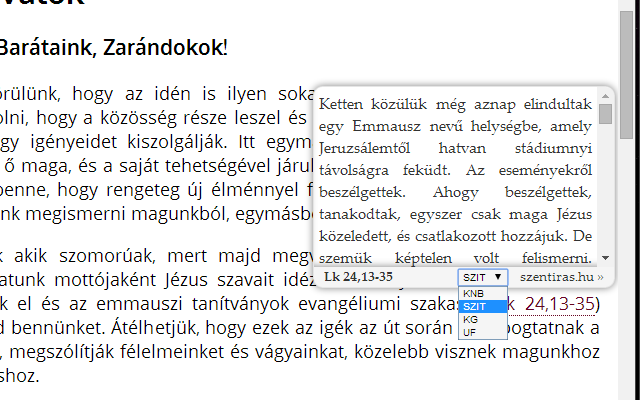
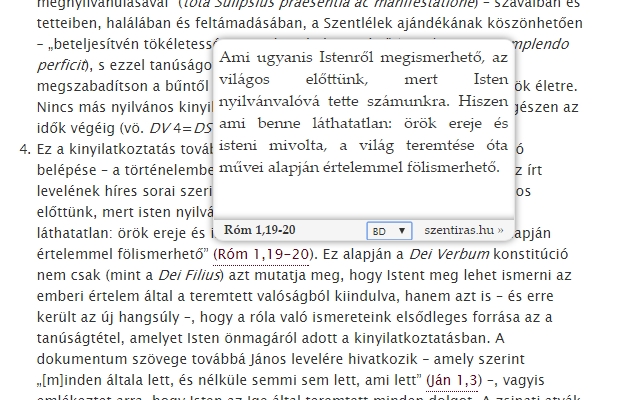
1.3 verzió

diff --git a/igemutato.min.js b/igemutato.min.js
@@ -1,1 +1,1 @@
-var Szentiras=(function(){var G={forditas:"SZIT",tipW:300,tipH:200,fontSize:16,tipD:5,tipShow:200,tipHide:500,excludeTags:"head,script,input,select,textarea,h1,h2,h3,a",enableFormatting:true,showNumbers:false},H=/(?:^|[^\w\u00C0-\u017F])((?:[12](?:K(?:[io]r|rón)|Makk?|Pé?t(?:er)?|Sám|T(?:h?essz?|im))|[1-3]Já?n(?:os)?|[1-5]Móz(?:es)?|(?:Ap)?Csel|A(?:gg?|bd)|Ám(?:ós)?|B(?:ár|[ií]r(?:ák)?|ölcs)|Dán|É(?:sa|zs|n(?:ek(?:ek|Én)?)?)|E(?:f(?:éz)?|szt?|z(?:s?dr?)?)|Fil(?:em)?|Gal|H(?:a[bg]|ós)|Iz|J(?:ak|á?n(?:os)?|e[lr]|o(?:el)?|ó(?:[bn]|zs|el)|[Ss]ir(?:alm?)?|úd(?:ás)?|ud(?:it)?)|K(?:iv|ol)|L(?:ev|u?k(?:ács)?)|M(?:al(?:ak)?|á?té?|(?:ár)?k|ik|Törv)|N[áe]h|(?:Ó|O)z|P(?:él|ré)d|R(?:óm|[uú]th?)|S(?:ir(?:alm?)?|ír|z?of|zám)|T(?:er|it|ób)|Z(?:ak|of|s(?:olt|id)?))\.?(?:\s*[0-9]{1,3}(?:[,:]\s*[0-9]{1,2}[a-z]?(?:\s*[-–—]\s*[0-9]{1,2}[a-z]?\b(?![,:]))?(?:\.\s*[0-9]{1,2}[a-z]?(?:\s*[-–—]\s*[0-9]{1,2}[a-z]?\b(?![,:]))?)*)?(?:\s*[-–—]\s*[0-9]{1,3}(?:[,:]\s*[0-9]{1,2}[a-z]?(?:\s*[-–—]\s*[0-9]{1,2}[a-z]?\b(?![,:]))?(?:\.\s*[0-9]{1,2}[a-z]?(?:\s*[-–—]\s*[0-9]{1,2}[a-z]?\b(?![,:]))?)*)?)?(?:\s*[\|;]\s*[0-9]{1,3}(?:[,:]\s*[0-9]{1,2}[a-z]?(?:\s*[-–—]\s*[0-9]{1,2}[a-z]?\b(?![,:]))?(?:\.\s*[0-9]{1,2}[a-z]?(?:\s*[-–—]\s*[0-9]{1,2}[a-z]?\b(?![,:]))?)*)?(?:\s*[-–—]\s*[0-9]{1,3}(?:[,:]\s*[0-9]{1,2}[a-z]?(?:\s*[-–—]\s*[0-9]{1,2}[a-z]?\b(?![,:]))?(?:\.\s*[0-9]{1,2}[a-z]?(?:\s*[-–—]\s*[0-9]{1,2}[a-z]?\b(?![,:]))?)*)?)?)*))(?:(?=[^\w\u00C0-\u017F])|$)/g,v=["KNB","SZIT","KG","UF","BD"],j="http://szentiras.hu/",t=j+"api/idezet/",i,p,g,r,s,o,J,u={},n,I,D=document,F=D.body,C=D.documentElement,c,l;if(!Array.prototype.indexOf){Array.prototype.indexOf=function(d){var b=this.length>>>0,e=0;for(;e<b;e++){if(e in this&&this[e]===d){return e}}return -1}}function a(K){var b,e,d,L,N,M;if(K=(K&&K.firstChild)){do{e=K.nextSibling;d=K.parentNode;if(K.nodeType===1&&c.indexOf(K.nodeName.toLowerCase())==-1){a(K)}else{if(K.nodeType===3){N=K.data;while(b=H.exec(N)){M=RegExp.leftContext,N=RegExp.rightContext,L=z(b);if(!L){continue}d.insertBefore(D.createTextNode(M),d.insertBefore(L,K));H.lastIndex=0}d.replaceChild(D.createTextNode(N),K)}}}while(K=e)}}function z(d){var b=D.createElement("a"),e=encodeURI(d[1].replace(/\s/g,""));b.className+=" ige-link";b.appendChild(D.createTextNode(d[0]));b.setAttribute("data-ige",d[1]);b.setAttribute("data-ref",e);b.target="_blank";b.href=j+n+"/"+e;b.onmouseover=function(K){clearTimeout(s);clearTimeout(o);m();k(b);s=setTimeout(function(){i.style.display="block";p.scrollTop=0},G.tipShow)};b.onmouseout=function(){clearTimeout(s);if(i){clearTimeout(o);o=setTimeout(function(){m()},G.tipHide)}};return b}function f(e,b){var d=new XMLHttpRequest();if("withCredentials" in d){d.open(e,b,true)}else{if(typeof XDomainRequest!="undefined"){d=new XDomainRequest();d.open(e,b)}else{d=null}}return d}function x(){J&&J.abort();if(u[n]&&u[n][I]){p.innerHTML=u[n][I];p.scrollTop=0;return}var e=t+I+"/"+n,b=function(){p.textContent="A betöltés sikertelen :-("},d=function(){try{if(!J.readystatechange||J.readyState===4){if(J.status===200){E(JSON.parse(J.responseText))}else{b()}}}catch(K){console&&console.log&&console.log(K.message)}};J=f("GET",e);if(J.readystatechange){J.onreadystatechange=d}else{J.onload=d;J.onerror=b}J.send()}function E(M){try{if(M&&M.error){B(p,M.error)}else{if(M&&M.valasz){if(M.valasz.hiba){B(p,M.valasz.hiba)}else{if(M.valasz.versek){if(M.valasz.versek.length){var d=M.valasz.versek;var b="",e,O=0,N;for(var L=0;L<d.length;L++){e=d[L].szoveg;if(!l){e=e.trim()}if(!G.enableFormatting){e=e.replace(/<[^>]+>/g," ").replace(/\s+/g," ")}if(G.showNumbers){N=y(d[L]);e="<sup>"+N.vers+"</sup>"+e;if(N.fejezet!=O){e='<span class="konyv">'+N.fejezet+"</span>&nbsp;"+e;O=N.fejezet}}b+=e+" "}p.innerHTML=b;u[n]||(u[n]={});u[n][I]=b;p.scrollTop=0;return}else{B(p,"Nem található a kért szöveg, talán egy másik fordításban?");return}}}}}}catch(K){console&&console.log&&console.log(K.message)}B(p,"Valami baj van a szöveggel...")}function y(d){var b=d.hely.gepi.toString();return{fejezet:parseInt(b.substring(3,6),10),vers:parseInt(b.substring(6,9),10)}}function B(b,d){if(l){b.innerText=d}else{b.textContent=d}}function A(){var M,L,b,K,e;i=D.createElement("div"),p=D.createElement("div"),p.className+="szoveg",i.appendChild(p),M=D.createElement("div"),M.className+="igehely",i.appendChild(M);i.id="igemutato-tooltip";i.onmouseover=function(){clearTimeout(o)};i.onmouseout=function(N){clearTimeout(o);o=setTimeout(function(){m()},G.tipHide)};p.style.fontSize=G.fontSize+"px";p.style.height=(G.tipH-30)+"px";L=D.createElement("div");g=D.createElement("a"),g.target="_blank",L.appendChild(g);r=D.createElement("select");for(var d=0;d<v.length;d++){e=D.createElement("option");e.value=v[d];B(e,v[d]);if(n==v[d]){e.selected=true}r.appendChild(e)}r.onchange=function(){n=r.value;g.href=j+n+"/"+I;x()};b=D.createElement("a"),b.href=j,b.target="_blank",B(b,"szentiras.hu »");K=D.createElement("span"),K.appendChild(b);M.appendChild(K);M.appendChild(r);M.appendChild(L);i.style.display="none";F.appendChild(i)}function q(d){var b=d.getBoundingClientRect();return{top:b.top+(window.pageYOffset||C.scrollTop||F.scrollTop)-C.clientTop,left:b.left+(window.pageXOffset||C.scrollLeft||F.scrollLeft)-C.clientLeft}}function k(e){var M=e.getAttribute("data-ige"),d=e.getAttribute("data-ref"),b=e.getBoundingClientRect(),N=q(e),L=F.clientWidth||window.innerWidth,K=e.offsetHeight;g.href=e.href;B(g,M);B(p,"Betöltés...");I=d;x();i.style.top=((b.top>G.tipH+G.tipD)?(N.top-G.tipH-G.tipD):(N.top+K+G.tipD))+"px";i.style.left=((N.left+G.tipW>L)?(L-G.tipW-G.tipD):N.left)+"px";i.style.width=G.tipW+"px";i.style.height=G.tipH+"px"}function m(){i.style.display="none";I=null}function w(b){var M=G;for(key in b){M[key]=b[key]}var e=parseInt(M.tipW),O=parseInt(M.tipH),L=parseInt(M.fontSize),d=parseInt(M.tipShow),K=parseInt(M.tipHide),N=M.forditas;M.tipW=(isNaN(e)||e<100)?G.tipW:e;M.tipH=(isNaN(O)||e<50)?G.tipH:O;M.fontSize=(isNaN(L)||L<5)?G.fontSize:L;M.tipShow=(isNaN(d)||d<0)?G.tipShow:d;M.tipHide=(isNaN(K)||K<0)?G.tipHide:K;M.forditas=(v.indexOf(N)==-1)?G.forditas:N;M.excludeTags=M.excludeTags||G.excludeTags;M.enableFormatting=(M.enableFormatting===undefined)?G.enableFormatting:M.enableFormatting;M.showNumbers=(M.showNumbers===undefined)?G.showNumbers:M.showNumbers;G=M}function h(d){var b=D.createElement("link");b.setAttribute("rel","stylesheet");b.setAttribute("type","text/css");b.setAttribute("href","http://molnarm.github.io/igemutato.min.css");D.getElementsByTagName("head")[0].appendChild(b);l=(window.attachEvent&&!window.addEventListener);n=G.forditas;c=G.excludeTags.split(",");A();a(d)}return{setConfig:w,start:h}})();window.igemutato&&window.igemutato.config&&Szentiras.setConfig(window.igemutato.config);Szentiras.start(document.body);
+var Szentiras=(function(){var G={forditas:"SZIT",tipW:300,tipH:200,fontSize:16,tipD:5,tipShow:200,tipHide:500,excludeTags:"head,script,input,select,textarea,h1,h2,h3,a",enableFormatting:true,showNumbers:false},H=/(?:^|[^\w\u00C0-\u017F])((?:[12](?:K(?:[io]r|rón)|Makk?|Pé?t(?:er)?|Sám|T(?:h?essz?|im))|[1-3]Já?n(?:os)?|[1-5]Móz(?:es)?|(?:Ap)?Csel|A(?:gg?|bd)|Ám(?:ós)?|B(?:ár|[ií]r(?:ák)?|ölcs)|Dán|É(?:sa|zs|n(?:ek(?:ek|Én)?)?)|E(?:f(?:éz)?|szt?|z(?:s?dr?)?)|Fil(?:em)?|Gal|H(?:a[bg]|ós)|Iz|J(?:ak|á?n(?:os)?|e[lr]|o(?:el)?|ó(?:[bn]|zs|el)|[Ss]ir(?:alm?)?|úd(?:ás)?|ud(?:it)?)|K(?:iv|ol)|L(?:ev|u?k(?:ács)?)|M(?:al(?:ak)?|á?té?|(?:ár)?k|ik|Törv)|N[áe]h|(?:Ó|O)z|P(?:él|ré)d|R(?:óm|[uú]th?)|S(?:ir(?:alm?)?|ír|z?of|zám)|T(?:er|it|ób)|Z(?:ak|of|s(?:olt|id)?))\.?(?:\s*[0-9]{1,3}(?:[,:]\s*[0-9]{1,2}[a-z]?(?:\s*[-–—]\s*[0-9]{1,2}[a-z]?\b(?![,:]))?(?:\.\s*[0-9]{1,2}[a-z]?(?:\s*[-–—]\s*[0-9]{1,2}[a-z]?\b(?![,:]))?)*)?(?:\s*[-–—]\s*[0-9]{1,3}(?:[,:]\s*[0-9]{1,2}[a-z]?(?:\s*[-–—]\s*[0-9]{1,2}[a-z]?\b(?![,:]))?(?:\.\s*[0-9]{1,2}[a-z]?(?:\s*[-–—]\s*[0-9]{1,2}[a-z]?\b(?![,:]))?)*)?)?(?:\s*[\|;]\s*[0-9]{1,3}(?:[,:]\s*[0-9]{1,2}[a-z]?(?:\s*[-–—]\s*[0-9]{1,2}[a-z]?\b(?![,:]))?(?:\.\s*[0-9]{1,2}[a-z]?(?:\s*[-–—]\s*[0-9]{1,2}[a-z]?\b(?![,:]))?)*)?(?:\s*[-–—]\s*[0-9]{1,3}(?:[,:]\s*[0-9]{1,2}[a-z]?(?:\s*[-–—]\s*[0-9]{1,2}[a-z]?\b(?![,:]))?(?:\.\s*[0-9]{1,2}[a-z]?(?:\s*[-–—]\s*[0-9]{1,2}[a-z]?\b(?![,:]))?)*)?)?)*))(?:(?=[^\w\u00C0-\u017F])|$)/g,v=["KNB","SZIT","KG","UF","RUF","BD"],j=(window.location.protocol=="https:"?"https:":"http:")+"//szentiras.hu/",t=j+"api/idezet/",i,p,g,r,s,o,J,u={},n,I,D=document,F=D.body,C=D.documentElement,c,l;if(!Array.prototype.indexOf){Array.prototype.indexOf=function(d){var b=this.length>>>0,e=0;for(;e<b;e++){if(e in this&&this[e]===d){return e}}return -1}}function a(K){var b,e,d,L,N,M;if(K=(K&&K.firstChild)){do{e=K.nextSibling;d=K.parentNode;if(K.nodeType===1&&c.indexOf(K.nodeName.toLowerCase())==-1){a(K)}else{if(K.nodeType===3){N=K.data;while(b=H.exec(N)){M=RegExp.leftContext,N=RegExp.rightContext,L=z(b);if(!L){continue}d.insertBefore(D.createTextNode(M),d.insertBefore(L,K));H.lastIndex=0}d.replaceChild(D.createTextNode(N),K)}}}while(K=e)}}function z(d){var b=D.createElement("a"),e=encodeURI(d[1].replace(/\s/g,""));b.className+=" ige-link";b.appendChild(D.createTextNode(d[0]));b.setAttribute("data-ige",d[1]);b.setAttribute("data-ref",e);b.target="_blank";b.href=j+n+"/"+e;b.onmouseover=function(K){clearTimeout(s);clearTimeout(o);m();k(b);s=setTimeout(function(){i.style.display="block";p.scrollTop=0},G.tipShow)};b.onmouseout=function(){clearTimeout(s);if(i){clearTimeout(o);o=setTimeout(function(){m()},G.tipHide)}};return b}function f(e,b){var d=new XMLHttpRequest();if("withCredentials" in d){d.open(e,b,true)}else{if(typeof XDomainRequest!="undefined"){d=new XDomainRequest();d.open(e,b)}else{d=null}}return d}function x(){J&&J.abort();if(u[n]&&u[n][I]){p.innerHTML=u[n][I];p.scrollTop=0;return}var d=t+I+"/"+n,b=function(){try{if(J.readyState===4&&J.status===200){E(JSON.parse(J.responseText));return}}catch(e){console&&console.log&&console.log(e.message)}if(J.readyState!==0){p.textContent="A betöltés sikertelen :-("}};J=f("GET",d);J.onreadystatechange=b;J.send()}function E(M){try{if(M&&M.error){B(p,M.error)}else{if(M&&M.valasz){if(M.valasz.hiba){B(p,M.valasz.hiba)}else{if(M.valasz.versek){if(M.valasz.versek.length){var d=M.valasz.versek;var b="",e,O=0,N;for(var L=0;L<d.length;L++){e=d[L].szoveg;if(!l){e=e.trim()}if(!G.enableFormatting){e=e.replace(/<[^>]+>/g," ").replace(/\s+/g," ")}if(G.showNumbers){N=y(d[L]);e="<sup>"+N.vers+"</sup>"+e;if(N.fejezet!=O){e='<span class="konyv">'+N.fejezet+"</span>&nbsp;"+e;O=N.fejezet}}b+=e+" "}p.innerHTML=b;u[n]||(u[n]={});u[n][I]=b;p.scrollTop=0;return}else{B(p,"Nem található a kért szöveg, talán egy másik fordításban?");return}}}}}}catch(K){console&&console.log&&console.log(K.message)}B(p,"Valami baj van a szöveggel...")}function y(d){var b=d.hely.gepi.toString();return{fejezet:parseInt(b.substring(3,6),10),vers:parseInt(b.substring(6,9),10)}}function B(b,d){if(l){b.innerText=d}else{b.textContent=d}}function A(){var M,L,b,K,e;i=D.createElement("div"),p=D.createElement("div"),p.className+="igemutato-szoveg",i.appendChild(p),M=D.createElement("div"),M.className+="igemutato-igehely",i.appendChild(M);i.id="igemutato-tooltip";i.onmouseover=function(){clearTimeout(o)};i.onmouseout=function(N){var O=N.toElement||N.relatedTarget;if(!O){return}clearTimeout(o);o=setTimeout(function(){m()},G.tipHide)};p.style.fontSize=G.fontSize+"px";p.style.height=(G.tipH-30)+"px";L=D.createElement("div");g=D.createElement("a"),g.target="_blank",L.appendChild(g);r=D.createElement("select");for(var d=0;d<v.length;d++){e=D.createElement("option");e.value=v[d];B(e,v[d]);if(n==v[d]){e.selected=true}r.appendChild(e)}r.onchange=function(){n=r.value;g.href=j+n+"/"+I;x()};b=D.createElement("a"),b.href=j,b.target="_blank",B(b,"szentiras.hu »");K=D.createElement("span"),K.appendChild(b);M.appendChild(K);M.appendChild(r);M.appendChild(L);i.style.display="none";F.appendChild(i)}function q(d){var b=d.getBoundingClientRect();return{top:b.top+(window.pageYOffset||C.scrollTop||F.scrollTop)-C.clientTop,left:b.left+(window.pageXOffset||C.scrollLeft||F.scrollLeft)-C.clientLeft}}function k(e){var M=e.getAttribute("data-ige"),d=e.getAttribute("data-ref"),b=e.getBoundingClientRect(),N=q(e),L=F.clientWidth||window.innerWidth,K=e.offsetHeight;g.href=e.href;B(g,M);B(p,"Betöltés...");I=d;x();i.style.top=((b.top>G.tipH+G.tipD)?(N.top-G.tipH-G.tipD):(N.top+K+G.tipD))+"px";i.style.left=((N.left+G.tipW>L)?(L-G.tipW-G.tipD):N.left)+"px";i.style.width=G.tipW+"px";i.style.height=G.tipH+"px"}function m(){i.style.display="none";I=null}function w(b){var M=G;for(key in b){M[key]=b[key]}var e=parseInt(M.tipW),O=parseInt(M.tipH),L=parseInt(M.fontSize),d=parseInt(M.tipShow),K=parseInt(M.tipHide),N=M.forditas;M.tipW=(isNaN(e)||e<100)?G.tipW:e;M.tipH=(isNaN(O)||e<50)?G.tipH:O;M.fontSize=(isNaN(L)||L<5)?G.fontSize:L;M.tipShow=(isNaN(d)||d<0)?G.tipShow:d;M.tipHide=(isNaN(K)||K<0)?G.tipHide:K;M.forditas=(v.indexOf(N)==-1)?G.forditas:N;M.excludeTags=M.excludeTags||G.excludeTags;M.enableFormatting=(M.enableFormatting===undefined)?G.enableFormatting:M.enableFormatting;M.showNumbers=(M.showNumbers===undefined)?G.showNumbers:M.showNumbers;G=M}function h(d){var b=D.createElement("link");b.setAttribute("rel","stylesheet");b.setAttribute("type","text/css");b.setAttribute("href","http://molnarm.github.io/igemutato.min.css");D.getElementsByTagName("head")[0].appendChild(b);l=(window.attachEvent&&!window.addEventListener);n=G.forditas;c=G.excludeTags.split(",");A();a(d)}return{setConfig:w,start:h}})();window.igemutato&&window.igemutato.config&&Szentiras.setConfig(window.igemutato.config);Szentiras.start(document.body);

diff --git a/igemutato.min.css b/igemutato.min.css
@@ -1,1 +1,1 @@
-a.ige-link,a.ige-link:hover{border-bottom:1px dotted #660420;color:#660420 !important;text-decoration:none}#igemutato-tooltip,#igemutato-tooltip *{-webkit-box-sizing:content-box;-moz-box-sizing:content-box;-o-box-sizing:content-box;box-sizing:content-box}#igemutato-tooltip,#igemutato-tooltip .igehely a,#igemutato-tooltip .igehely a:hover{font-family:Palatino,"Palatino Linotype","Palatino LT STD","Book Antiqua",Georgia,serif;color:#333;text-decoration:none}#igemutato-tooltip{position:absolute;z-index:1000;overflow:hidden;border-radius:10px;box-shadow:0 0 10px rgba(0,0,0,0.5);border:1px solid #e5e5e5}#igemutato-tooltip .szoveg{background:white;padding:5px;text-align:justify;overflow:auto;box-shadow:inset 0 -5px 10px -5px rgba(0,0,0,0.5)}#igemutato-tooltip sup,#igemutato-tooltip .konyv{color:#999}#igemutato-tooltip .konyv{font-weight:bold;font-size:1.5em}#igemutato-tooltip .igehely{width:100%;height:20px;font-size:13px;text-align:left}#igemutato-tooltip,.igehely select{background:#f5f5f5}.igehely div{overflow:hidden;text-overflow:ellipsis;white-space:nowrap;font-weight:bold}.igehely a{margin:0 10px}.igehely span,.igehely select{float:right}.igehely select{font-size:10px;margin:2px;border:1px solid #ccc}
+a.ige-link,a.ige-link:hover{border-bottom:1px dotted #660420;color:#660420 !important;text-decoration:none}#igemutato-tooltip,#igemutato-tooltip *{-webkit-box-sizing:content-box;-moz-box-sizing:content-box;-o-box-sizing:content-box;box-sizing:content-box}#igemutato-tooltip,.igemutato-igehely a,.igemutato-igehely a:hover{font-family:Palatino,"Palatino Linotype","Palatino LT STD","Book Antiqua",Georgia,serif;color:#333;text-decoration:none}#igemutato-tooltip{position:absolute;z-index:1000;overflow:hidden;border-radius:10px;box-shadow:0 0 10px rgba(0,0,0,0.5);border:1px solid #e5e5e5}.igemutato-szoveg{background:white;padding:5px;text-align:justify;overflow:auto;box-shadow:inset 0 -5px 10px -5px rgba(0,0,0,0.5)}#igemutato-tooltip sup,#igemutato-tooltip .konyv{color:#999}#igemutato-tooltip .konyv{font-weight:bold;font-size:1.5em}.igemutato-igehely{width:100%;height:20px;font-size:13px;text-align:left}#igemutato-tooltip,.igemutato-igehely select{background:#f5f5f5}.igemutato-igehely div{overflow:hidden;text-overflow:ellipsis;white-space:nowrap;font-weight:bold}.igemutato-igehely a{margin:0 10px}.igemutato-igehely span,.igemutato-igehely select{float:right}.igemutato-igehely select{font-size:10px;height:16px;margin:2px;border:1px solid #ccc}

diff --git a/igemutato/index.html b/igemutato/index.html
@@ -1,4 +1,4 @@
-<!DOCTYPE html>
+<!DOCTYPE html>
 <html>
 <head>	
 	<meta charset="utf-8"> 
@@ -31,6 +31,7 @@
 	
 	<h2 id="news">Hírek</h2>
 	<ul>
+        <li>2017.04.29: 1.3 verzió: BD és RUF fordítás minden platformon, számos hibajavítás (különösen Firefoxban)</li>
 		<li>2015.11.03 (még csak a beágyazott verzióban): Békés-Dalos fordítás, érthetőbb hibaüzenetek</li>
 		<li>2015.10.27: 1.2 verzió: új Firefox bővítmény SDK használata, hibajavítások</li>
 		<li>2015.10.11: 1.1 verzió: hibajavítások, a böngésző-bővítmények frissítése a legújabb eszközökkel</li>
